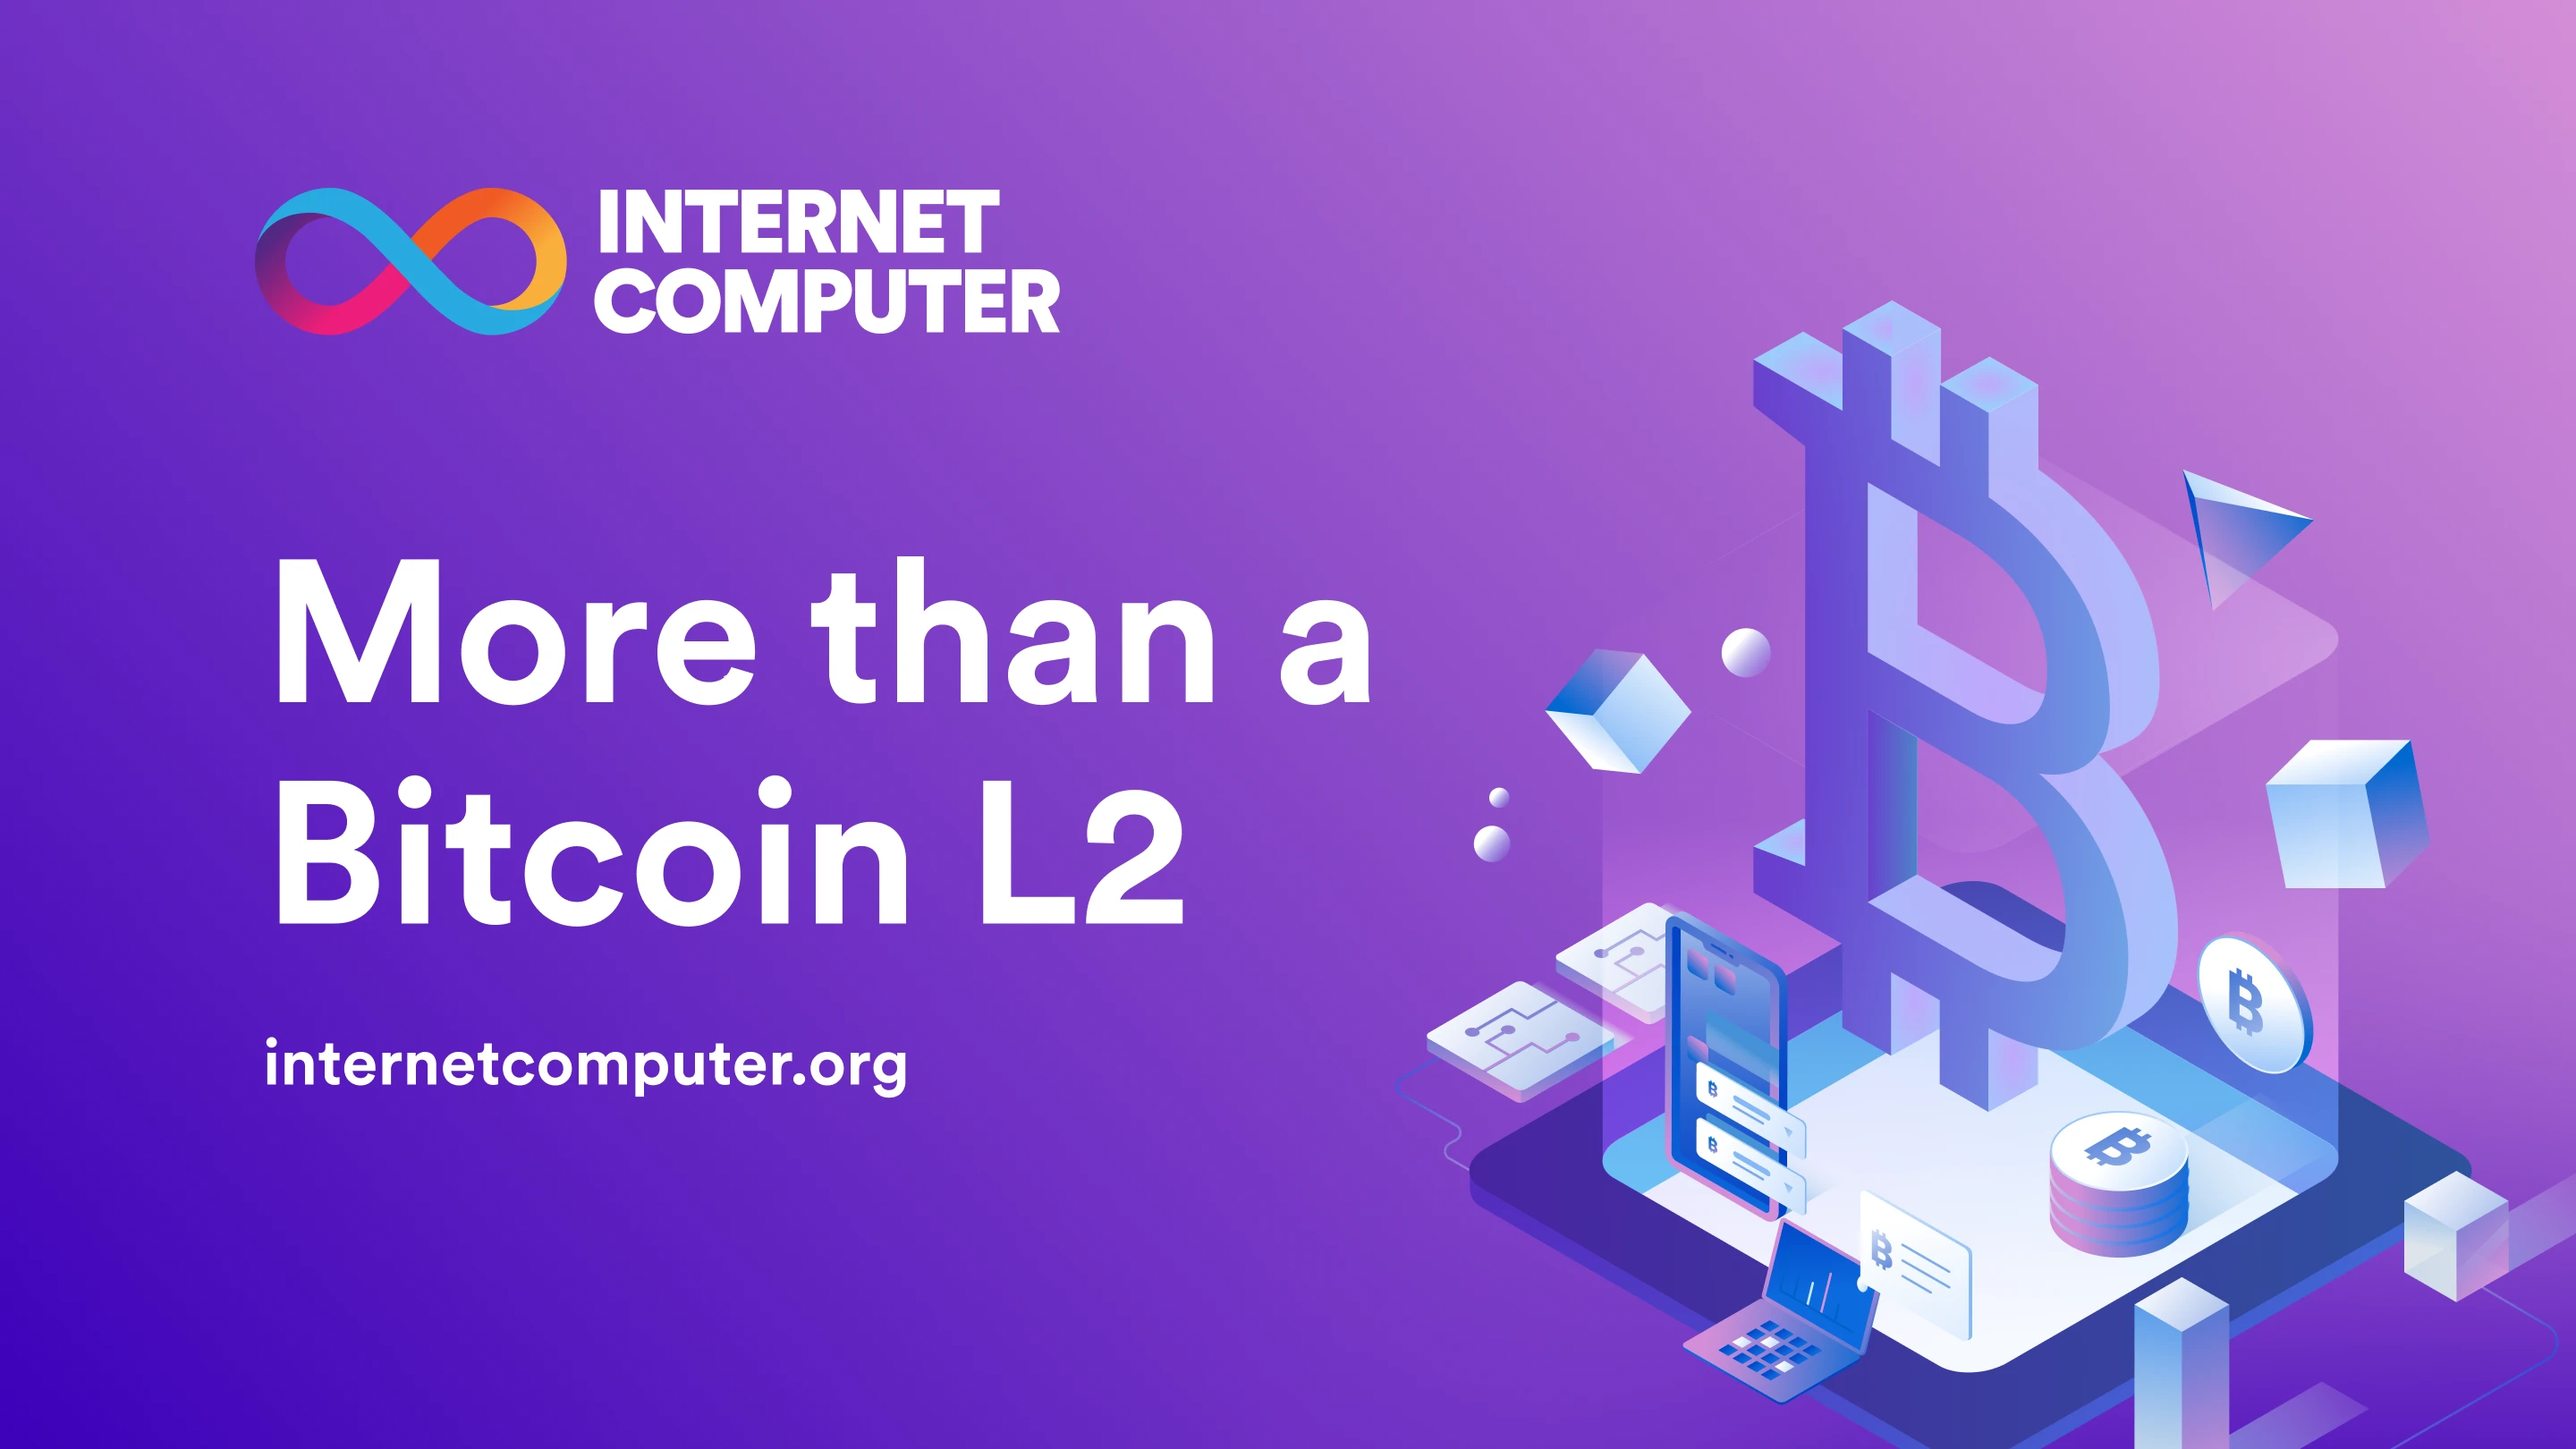
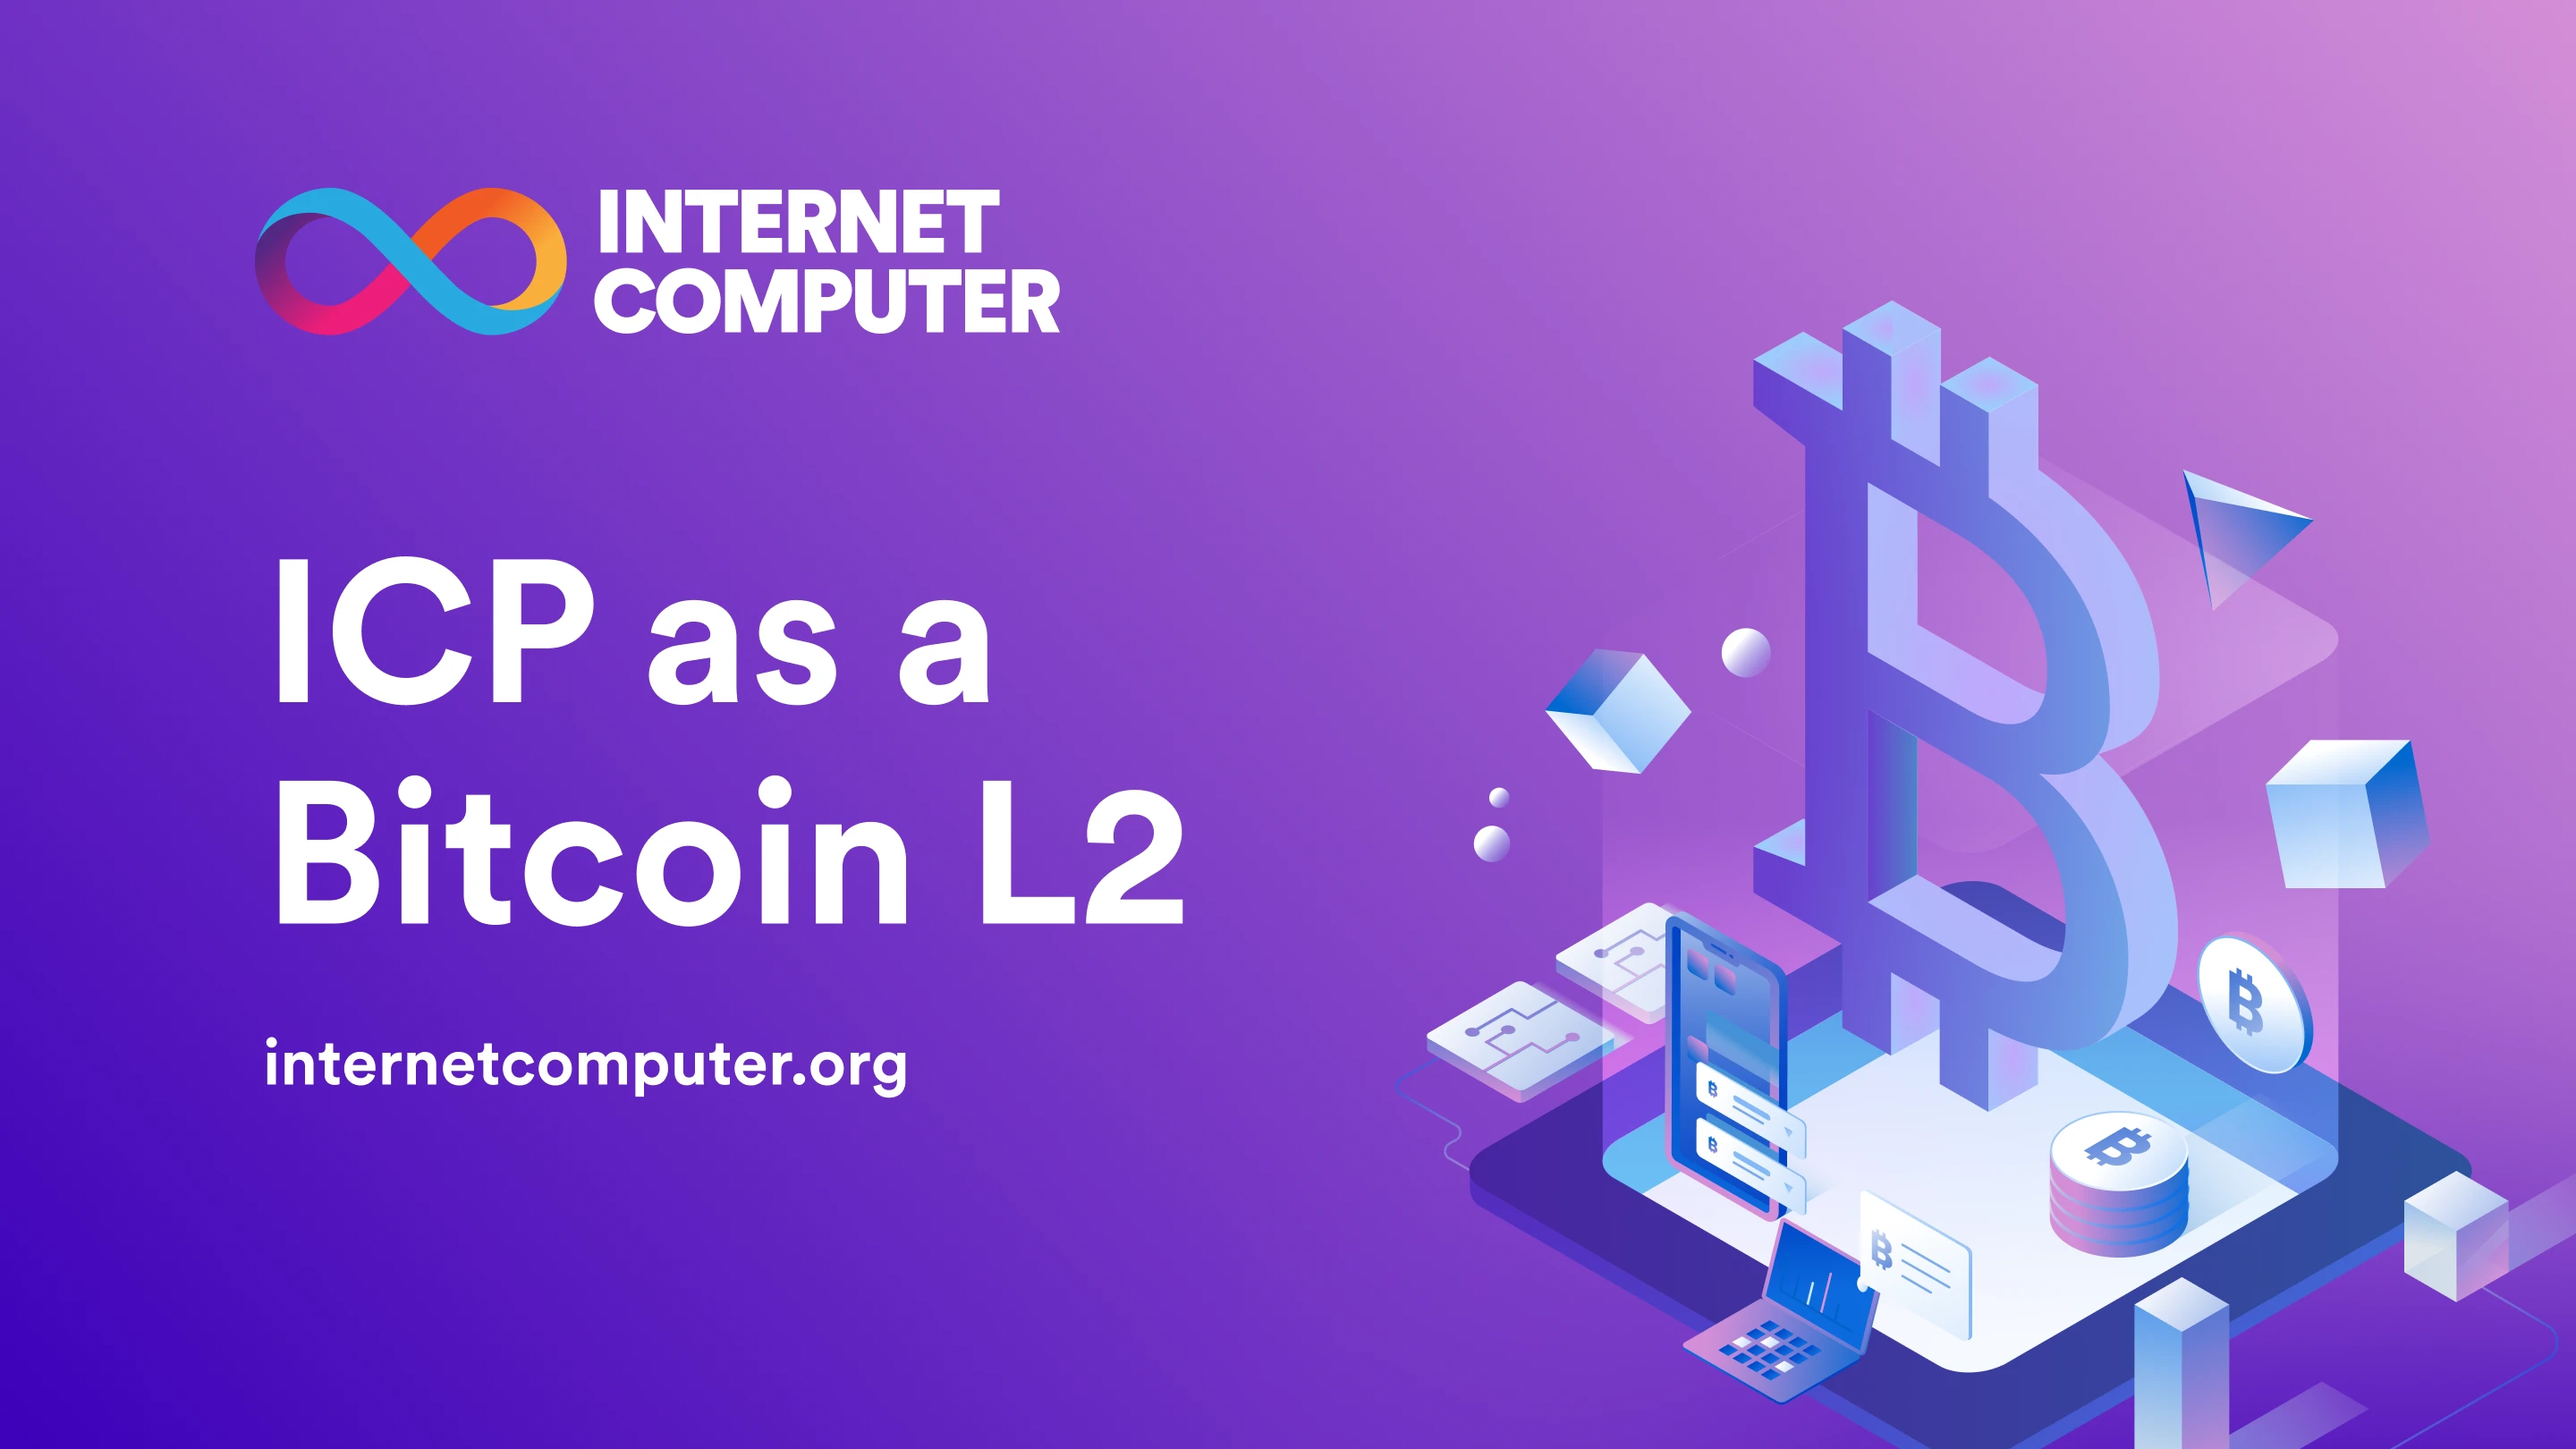
update headline, text, shareimage

Changed region(s): [[0.0938, 0.3704, 0.4688, 0.4938], [0.5, 0.4012, 0.5312, 0.4938]]

diff --git a/src/pages/bitcoin-integration.tsx b/src/pages/bitcoin-integration.tsx
@@ -16,7 +16,7 @@ function BitcoinIntegration() {
 
   return (
     <Layout
-      title="ICP - More than a Bitcoin L2"
+      title="ICP as a Bitcoin L2"
       description="Leveraging Chain Fusion Technology, ICP canister smart contracts can directly read and write to the Bitcoin network. This establishes ICP as the industry's premier orchestration layer, enabling dapps to natively interact with the Bitcoin blockchain."
       editPath={`https://github.com/dfinity/portal/edit/master/${__filename}`}
     >

diff --git a/src/components/BitcoinIntegrationPage/Hero/index.tsx b/src/components/BitcoinIntegrationPage/Hero/index.tsx
@@ -17,7 +17,7 @@ const Hero = forwardRef<HTMLDivElement, {}>((_, ref) => {
             variants={transitions.item}
             className="tw-heading-3 mb-2 md:tw-heading-2 md:mb-6 md:w-7/12"
           >
-            ICP - More than a Bitcoin L2
+            ICP as a Bitcoin L2
           </motion.h1>
           <motion.p
             variants={transitions.item}
